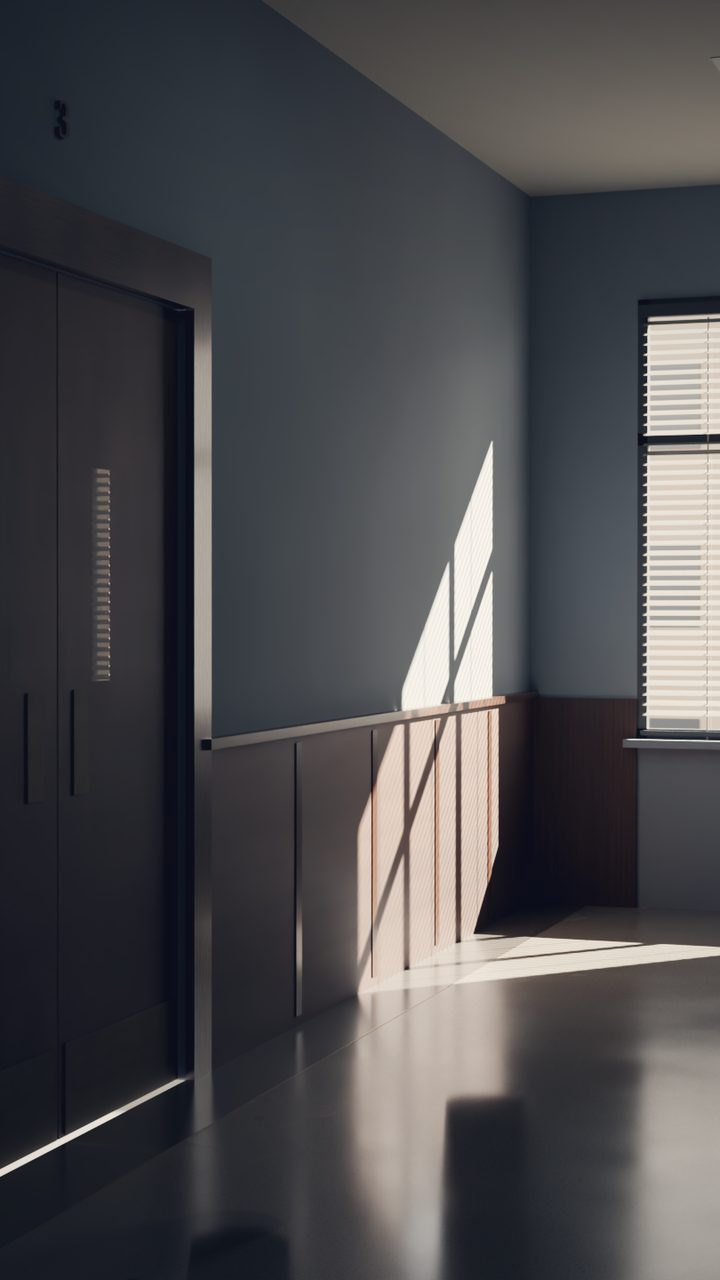
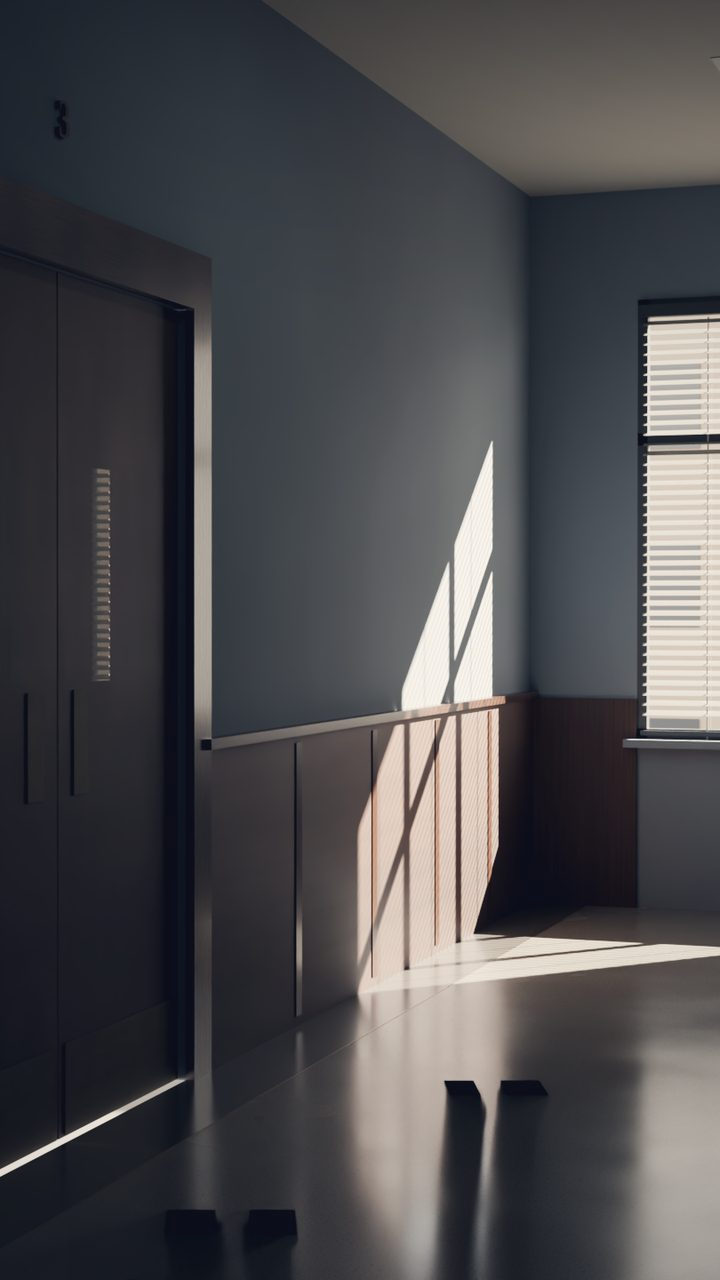
第三法庭外走廊：人有影子和地上倒影（設計師 22a 試放）；e2e 等看得見的字幕卡
- 假人換成立牌輪廓做的替身（鏡頭看不到、只投影），兩人那一塊局部重算三層光
- 實測：桌機 ΔE 1.10、手機 ΔE 1.50，零黃
- slice.spec.ts：這場有底圖後台詞在字幕卡上，筆錄裡另有一份藏著的，只等看得見的那一份

Claude-Session: https://claude.ai/code/session_01G8FC15sLW17Be3jTGciJcG

Changed region(s): [[0.5806, 0.8438, 0.7639, 1.0], [0.3667, 0.9375, 0.4278, 0.9688], [0.2444, 0.9375, 0.3056, 0.9688]]

diff --git a/e2e/slice.spec.ts b/e2e/slice.spec.ts
@@ -530,7 +530,8 @@ test('瑞秋援引緘默權後，檢方撤回起訴，直接進尾聲（E1）', 
   // 最後一句落地後先停在筆錄上，按「休庭」才進休庭頁。
   await page.getByRole('button', { name: '休庭', exact: true }).click();
   await next(page);
-  await until(page, page.getByText('下次，早點打給我。'));
+  // 走廊這場有底圖（#447）：台詞在字幕卡上，筆錄裡另有一份藏著的，只等看得見的那一份。
+  await until(page, page.getByText('下次，早點打給我。').filter({ visible: true }));
   // 沒走蘿莎的停車場線，不知道潔德是誰：信封不能交給她。
   const keep = page.getByRole('button', { name: /自己保留/ });
   await until(page, keep);
